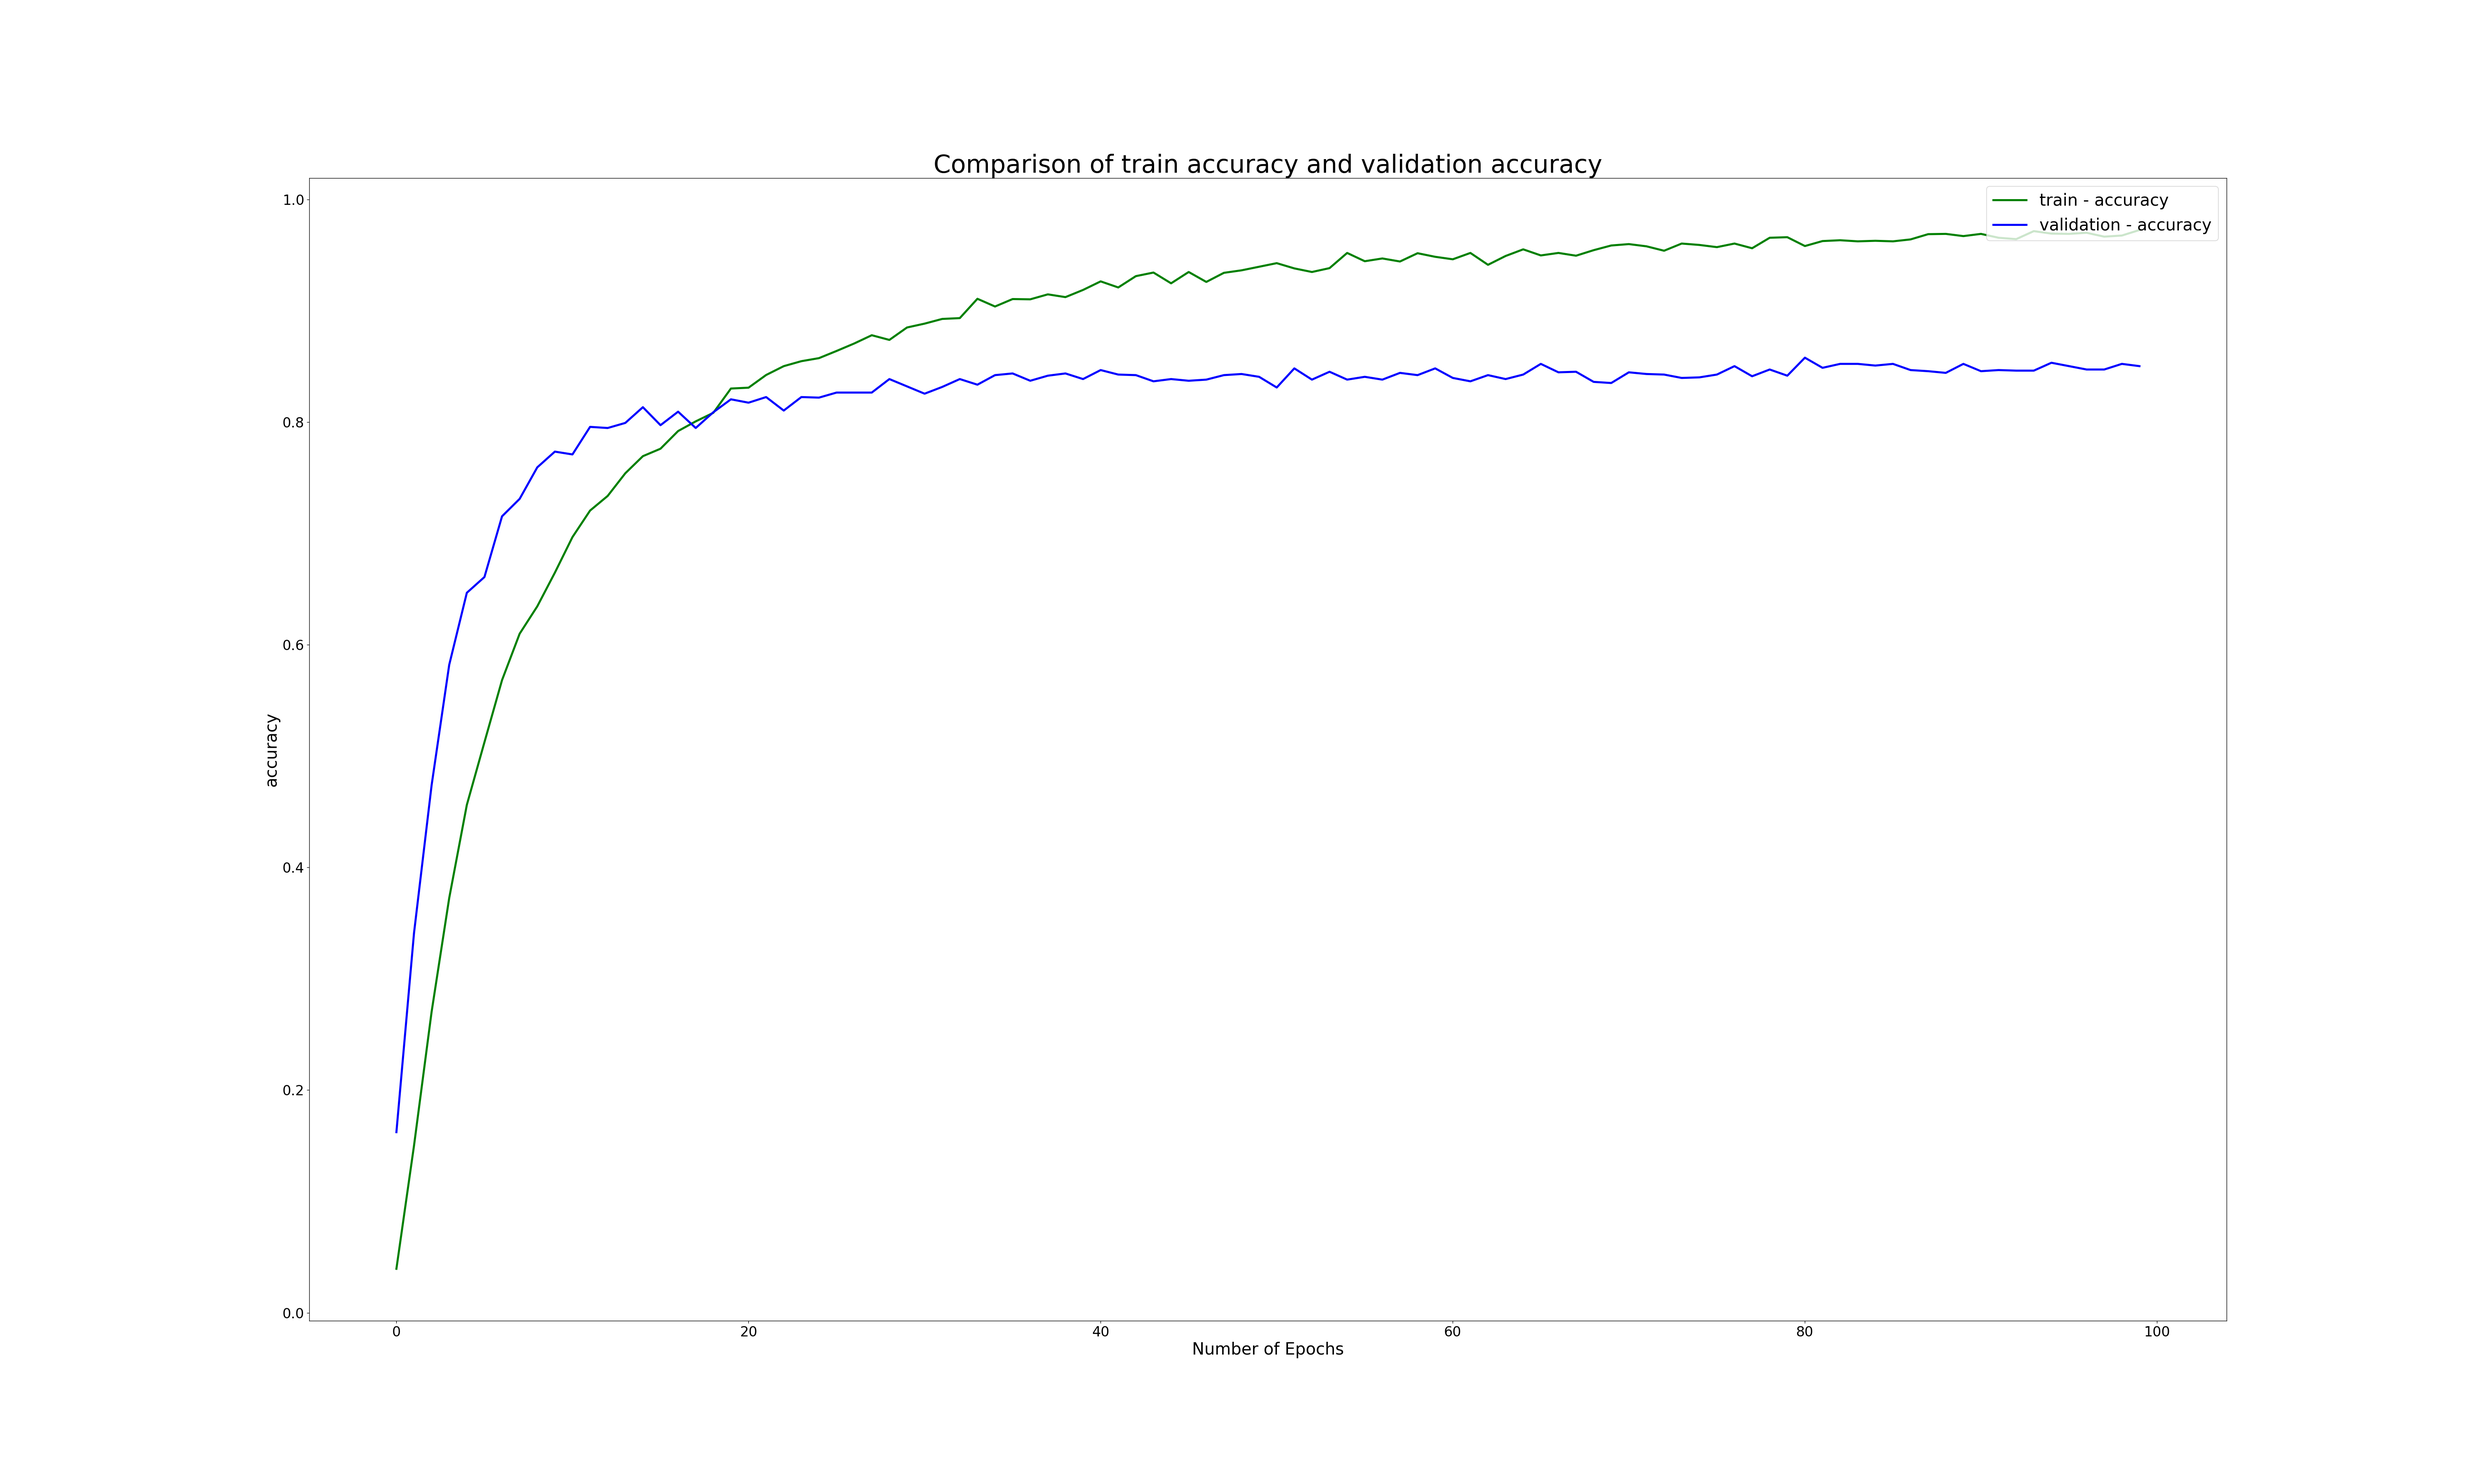
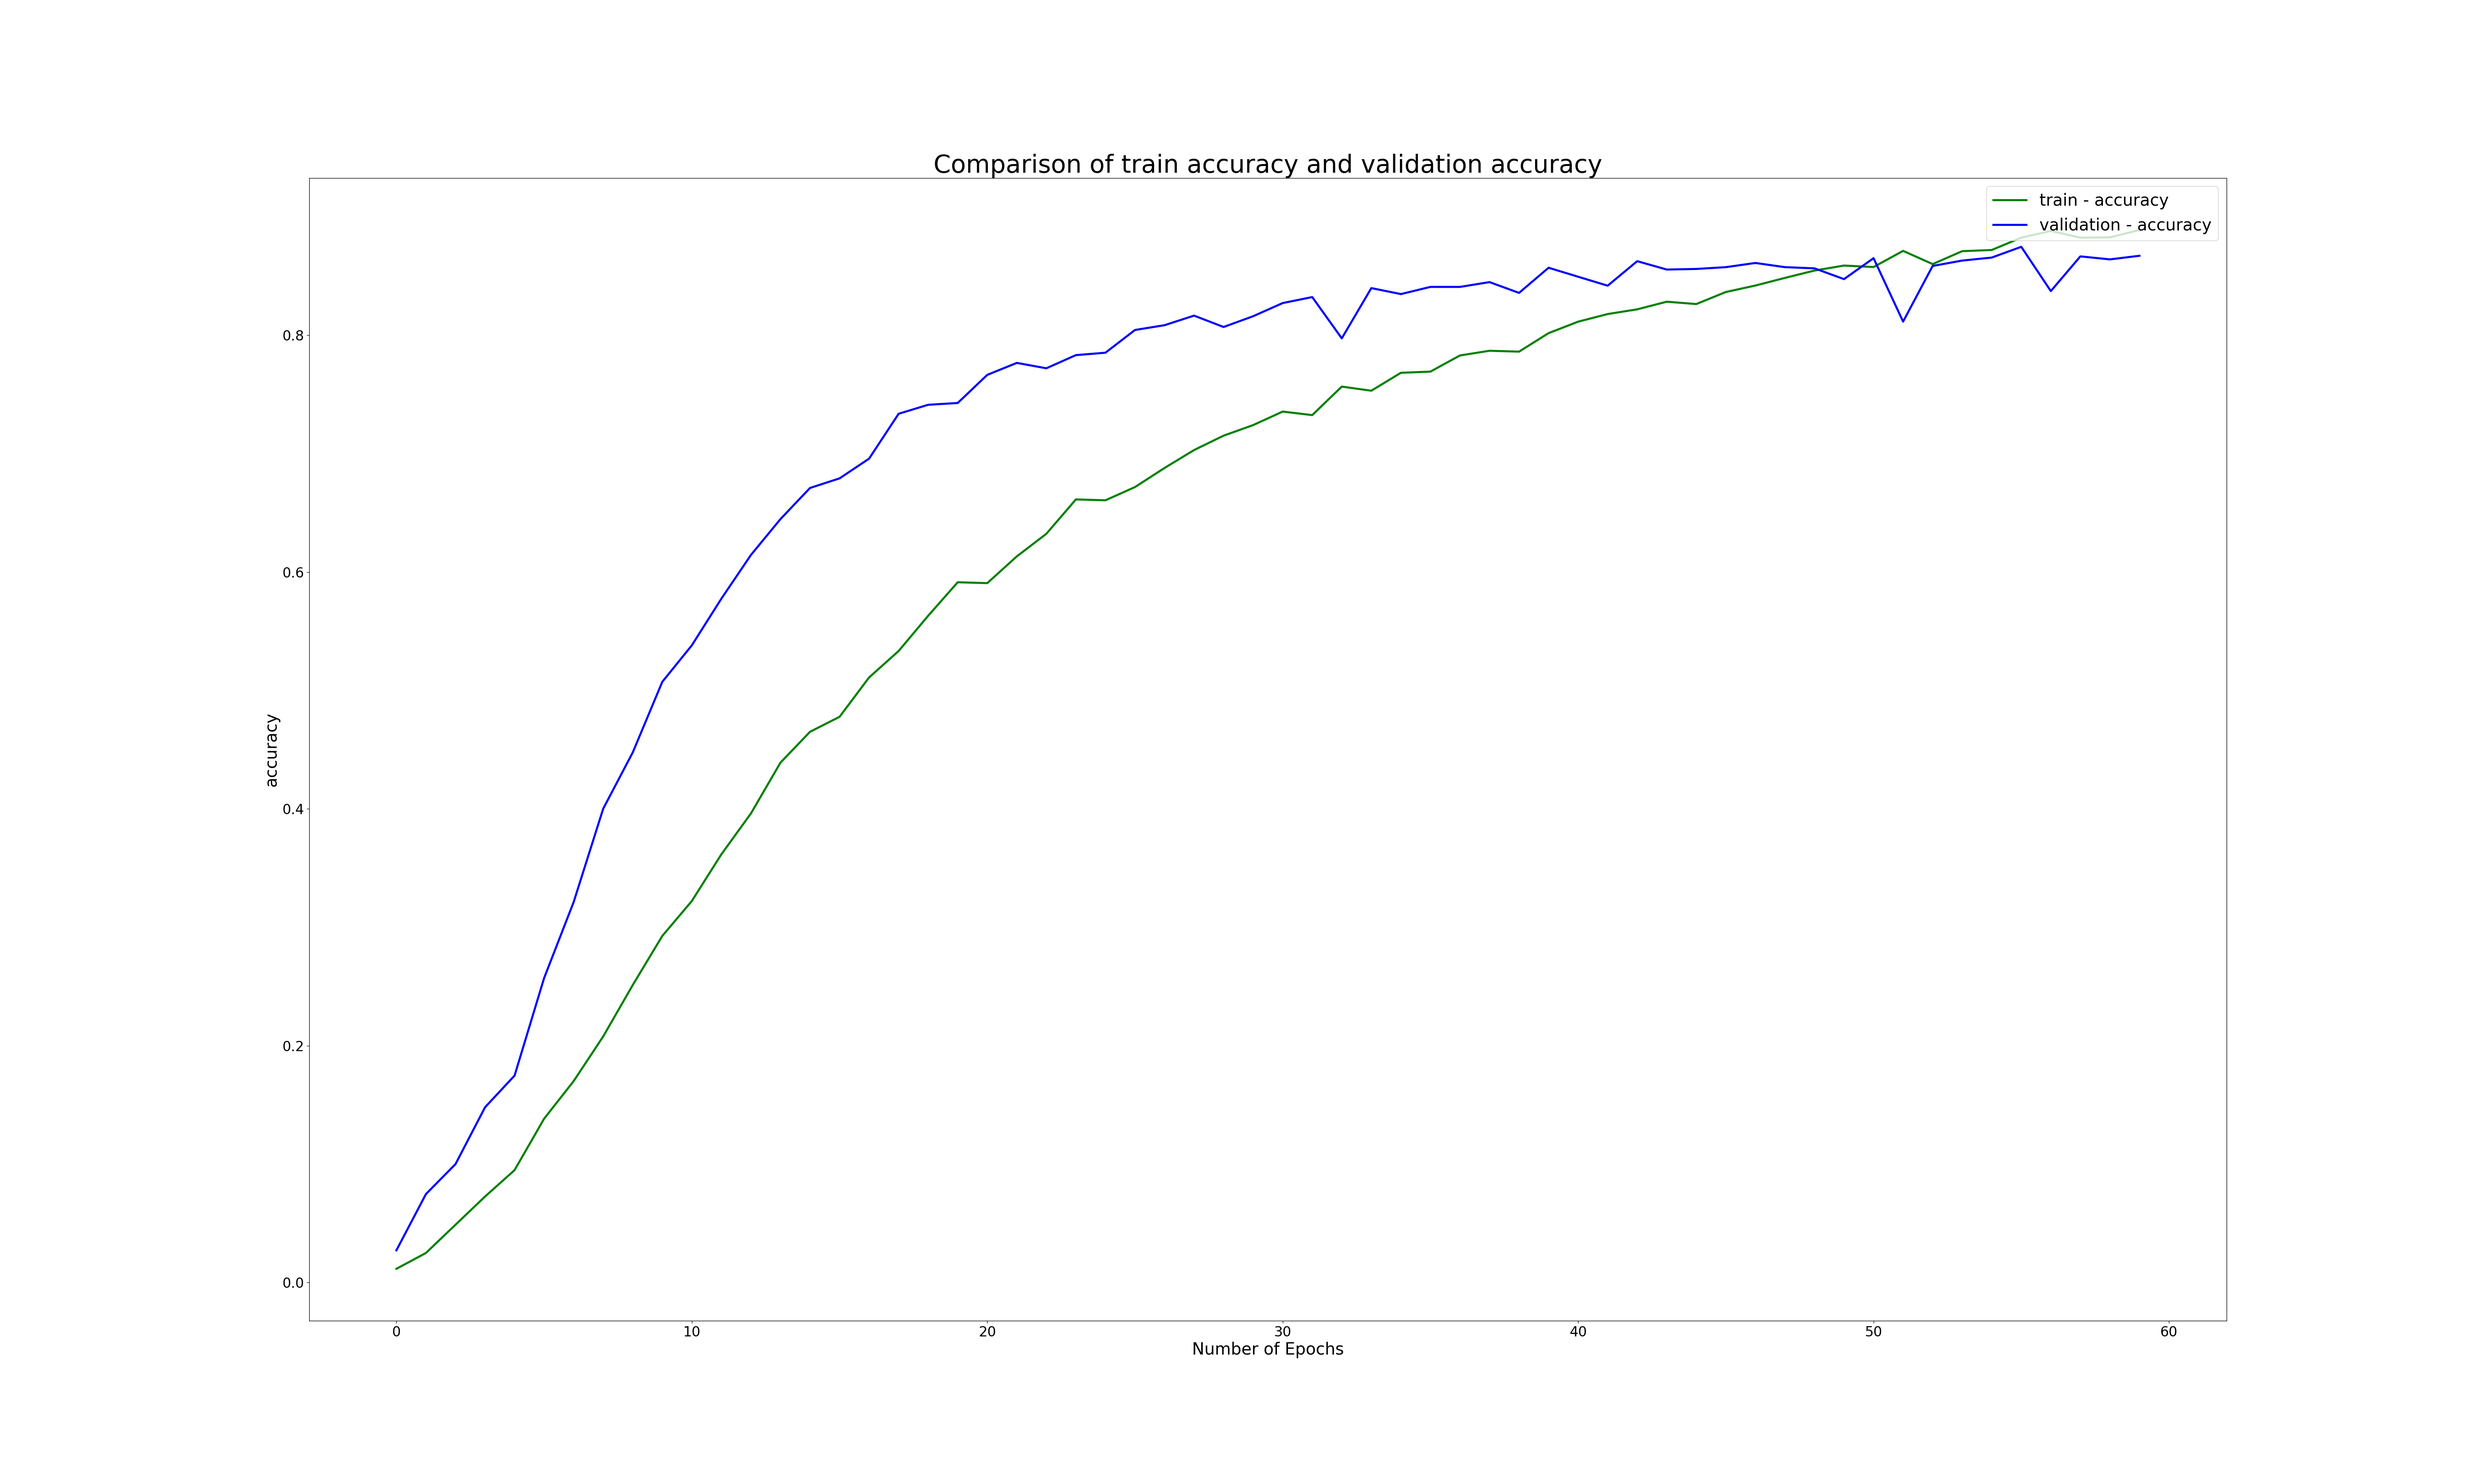
retrained with updated model

Changed region(s): [[0.6545, 0.1556, 0.8415, 0.1867], [0.5298, 0.2489, 0.561, 0.28], [0.374, 0.2489, 0.4052, 0.28]]

diff --git a/Multi-Classifier-using-Transfer-Learning/TestMultiCNN.py b/Multi-Classifier-using-Transfer-Learning/TestMultiCNN.py
@@ -1,0 +1,97 @@
+import tensorflow as tf
+import os
+import numpy as np
+#import DatasetDirectoryPreprocessing as DDP
+from keras_preprocessing import image
+
+# loading trained model
+model = tf.keras.models.load_model("multiCNN.h5")
+
+# test datatset configuration
+TEST_DIR = "data/testing/"
+CLASS_LIST = os.listdir(TEST_DIR)
+CLASS_LIST = sorted(CLASS_LIST)
+
+try:
+    CLASS_LIST.remove(".DS_Store")
+except:
+    pass
+
+NUM_CLASSES = 150
+FAILED_IMAGES = 0
+TOTAL_TEST_IMAGES = 0
+accurate_images = 0
+
+for classname in CLASS_LIST:
+    print("\nPrediction for images in " + classname + " class")
+    classpath = os.path.join(TEST_DIR, classname)
+    classpath_list = os.listdir(classpath)
+
+    for fn in classpath_list:
+        img_path = os.path.join(classpath, fn)
+        try:
+            img = image.load_img(img_path, target_size = (300, 300))
+
+            xs = image.img_to_array(img)
+            xs = np.expand_dims(xs, axis = 0)
+
+            classes = model.predict(xs)
+            #print("\n")
+            #print(classes)
+
+            for idx in range(NUM_CLASSES):
+                if classes[0][idx] > 0.5:
+                    key = CLASS_LIST[idx]
+                    #print("class index = " , idx)
+                    print("\n" + fn + " is a " + key)
+                    TOTAL_TEST_IMAGES += 1
+                    if key == classname:
+                        accurate_images += 1
+        except:
+            print("Failed to load " + fn + " image")
+            FAILED_IMAGES += 1
+        
+print("Total tested images = ", TOTAL_TEST_IMAGES)
+print("Failed images = ", FAILED_IMAGES)
+accuracy = accurate_images / TOTAL_TEST_IMAGES
+accuracy = accuracy * 100
+print("Accuracy = " + str(accuracy) + "%")
+
+
+"""
+TEST_DIR = DDP.test_dir
+CLASS_LIST = DDP.class_list
+TEST_IMAGE_COUNT = 0
+
+for folder in CLASS_LIST:
+    # predictions
+    print("Predictions for images in " + folder + " class")
+    path = os.path.join(TEST_DIR, folder)
+    path_list = os.listdir(path)
+
+    for fn in path_list:
+        img_path = os.path.join(path, fn)
+        try:
+            img = image.load_img(img_path, target_size = (300, 300))
+
+            xs = image.img_to_array(img)
+            xs = np.expand_dims(xs, axis = 0)
+
+            images = np.vstack([xs])
+            classes = model.predict(images, batch_size = 20)
+            # print(classes)
+
+            TEST_IMAGE_COUNT += 1
+            CLASS_IMAGE_INDEX = 0
+            print("Test Image no.: ", TEST_IMAGE_COUNT)
+            for idx in range(150):
+                if classes[CLASS_IMAGE_INDEX][idx] > 0.6:
+                    print("\n" + fn + " is a " + CLASS_LIST[idx])
+        
+            CLASS_IMAGE_INDEX += 1
+        
+        except:
+            continue
+"""
+
+

diff --git a/Multi-Classifier-using-Transfer-Learning/ImageGenerators.py b/Multi-Classifier-using-Transfer-Learning/ImageGenerators.py
@@ -17,11 +17,11 @@ validation_datagen = ImageDataGenerator(rescale = 1./255.)
 
 # Flowing Images in generator using datagens
 train_generator = train_datagen.flow_from_directory(TRAIN_DIR,
-                                                    batch_size = 100,
+                                                    batch_size = 200,
                                                     class_mode = 'categorical',
-                                                    target_size = (150, 150))
+                                                    target_size = (300, 300))
 
 validation_generator = validation_datagen.flow_from_directory(VALIDATION_DIR,
-                                                              batch_size = 50,
+                                                              batch_size = 200,
                                                               class_mode = 'categorical',
-                                                              target_size = (150, 150))
+                                                              target_size = (300, 300))

diff --git a/Multi-Classifier-using-Transfer-Learning/MultiCNN.py b/Multi-Classifier-using-Transfer-Learning/MultiCNN.py
@@ -8,13 +8,18 @@ import PreTrainedInceptionV3 as PTI
 LAST_OUTPUT = PTI.last_output
 PRE_TRAINED_MODEL = PTI.pre_trained_model
 
+# adding trainable convolutional and Maxpooling layers
+xs = layers.Conv2D(128, (3, 3), activation="relu")(LAST_OUTPUT)
+xs = layers.MaxPooling2D(2, 2)(xs)
+#xs = layers.Conv2D(128, (3, 3), activation="relu")(xs)
+#xs = layers.MaxPooling2D(2, 2)(xs)
 # Flatenning the output layer to 1 dimension
-xs = layers.Flatten()(LAST_OUTPUT)
+xs = layers.Flatten()(xs)#(LAST_OUTPUT)
 # Adding a fully connected layers
-xs = layers.Dense(512, activation="relu")(xs)
-xs = layers.Dense(512, activation="relu")(xs)
+xs = layers.Dense(1024, activation="relu")(xs)
+#xs = layers.Dense(512, activation="relu")(xs)
 # Adding Dropout layer
-xs = layers.Dropout(0.2)(xs)
+xs = layers.Dropout(0.3)(xs)
 # Adding output layer for classification
 xs = layers.Dense(150, activation="softmax")(xs)
 

diff --git a/Multi-Classifier-using-Transfer-Learning/PreTrainedInceptionV3.py b/Multi-Classifier-using-Transfer-Learning/PreTrainedInceptionV3.py
@@ -6,7 +6,7 @@ from tensorflow.keras.applications.inception_v3 import InceptionV3
 local_weights_file = 'pre-trained-model/inception_v3_weights_tf_dim_ordering_tf_kernels_notop.h5'
 
 # defining Inception model and removing top dense layers
-pre_trained_model = InceptionV3(input_shape = (150, 150, 3),
+pre_trained_model = InceptionV3(input_shape = (300, 300, 3),
                                 include_top = False,
                                 weights = None)
 

diff --git a/Multi-Classifier-using-Transfer-Learning/TrainMultiCNN.py b/Multi-Classifier-using-Transfer-Learning/TrainMultiCNN.py
@@ -39,7 +39,7 @@ model.compile(optimizer=RMSprop(lr=0.0001),
 # training model
 history = model.fit(TRAIN_GENERATOR,
                     validation_data = VALIDATION_GENERATOR,
-                    epochs = 100,
+                    epochs = 60,
                     verbose = 1,
                     callbacks = [callbacks])
 
